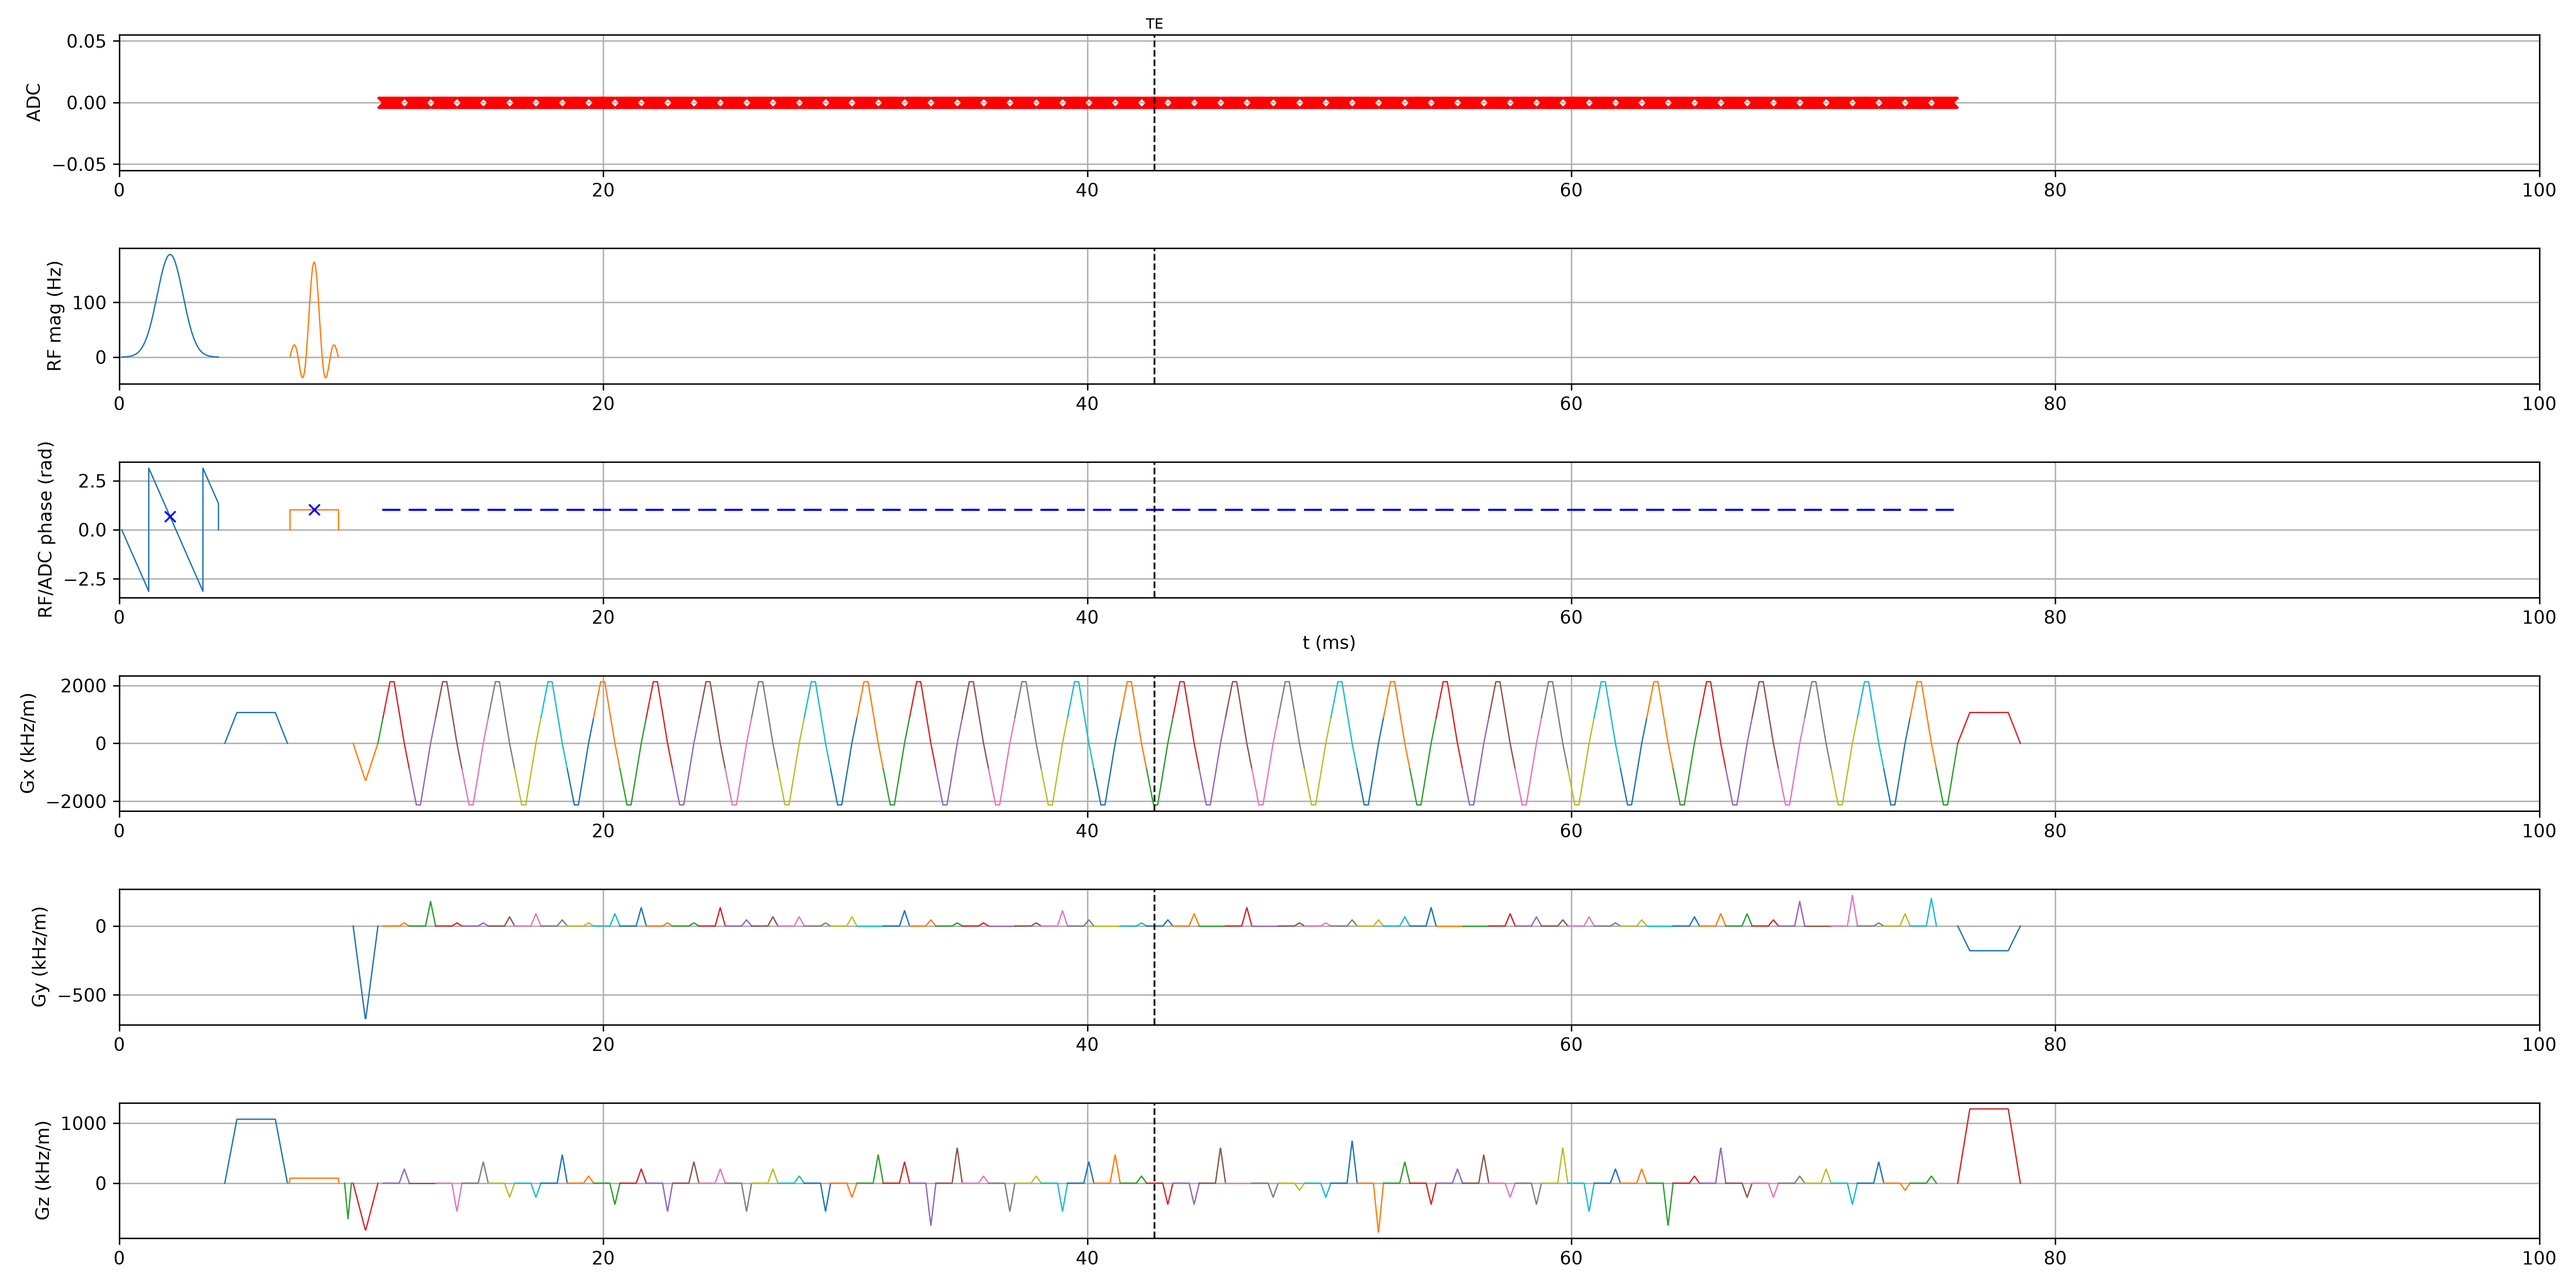
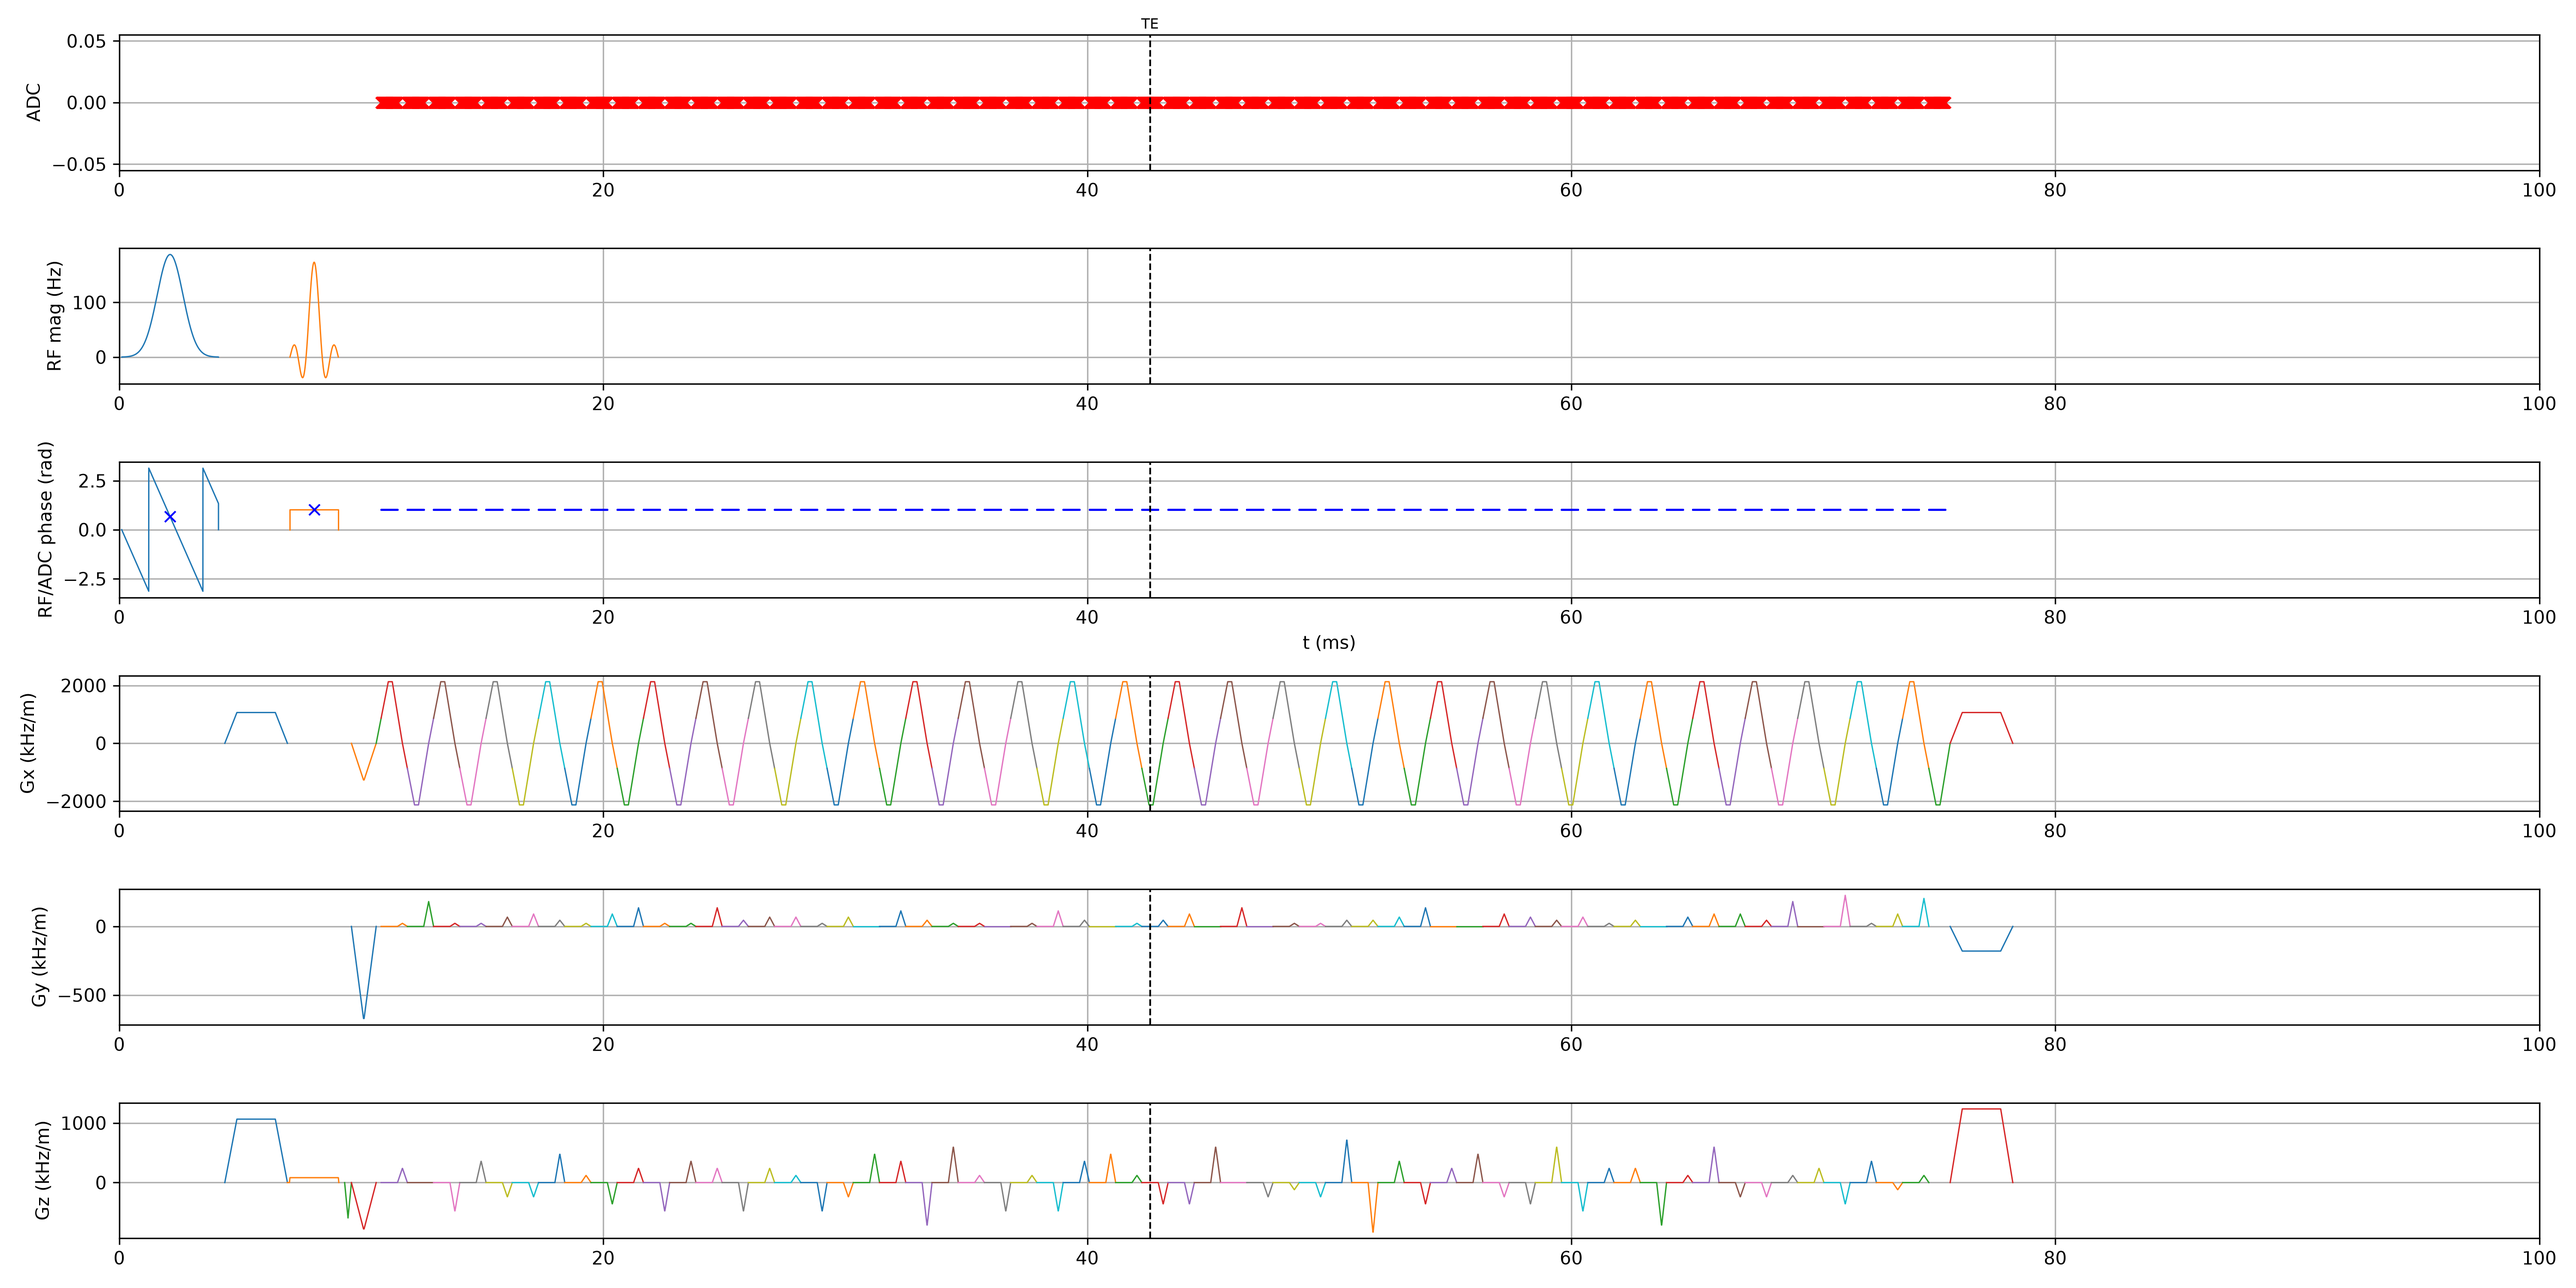
Bump blip_slew to 105 T/m/s, TE to 34.9 ms (ride-the-line choice)
Raising the blip slew from 100 to 105 shortens the shared blip window
408 -> 392 us and echo spacing 1084 -> 1076 us, taking min TE from
35.10 to 34.86 ms at 79.8% peak PNS on the full seed=0 ArbEPI build
(was 78.3%) -- a deliberate trade of nearly all the margin to the 80%
normal-mode line for 0.24 ms of TE. Probed alternatives: blip 110
lands at ~80.0% (coin flip), 115+ is over, and the blips alone floor
the sequence at ~83% by 160. The ~0.2% remaining margin is thinner
than observed mask-to-mask variation, so the params comment now says
to re-verify (PNS regression test + main.py --ge) after any change to
seed/mask/R/ETL/resolution and drop back to 100 if a new mask pushes
it over. Full re-verification: all four sequences pass main.py --ge
(ArbEPI 79.8%, EPIcal 78.1%, deGRE 77.4%, noise 0%), main.py builds
warning-free at TE 34.9 ms, comparison table/figures and docs/demo
one-TR figures regenerated.

diff --git a/params.py b/params.py
@@ -154,12 +154,19 @@ def load_params(output_dir: str = 'output') -> Params:
     # Values below are the outcome of an empirical sweep (2026-08-27, ~600
     # rise/fall/blip candidates, each a full-dims worst-frame ArbEPI build
     # evaluated with ge/pns.py's RSS-combined total; see CLAUDE.md's PNS
-    # section): 100/120/100 measures 78.2% peak PNS at min TE 35.22 ms
-    # vs the symmetric-100 design's 77.4% at 35.92 ms, on a conservative
-    # sweep mask whose largest blip step was 39 (the seed=0 mask's is 37,
-    # and the full seed=0 build confirms 78.3% peak at TE 35.30 ms
-    # realized -- slightly more PNS headroom and min_te pad than the sweep
-    # numbers imply). The POPE gain is
+    # section). rise/fall = 100/120 is the fastest readout-ramp pair under
+    # the 80% normal-mode line (rise 105 tips the full build to 80.06% at
+    # identical echo spacing; fall beyond ~120 buys almost no echo spacing
+    # because with ramp sampling the flat top regrows to keep +-kmax
+    # coverage). blip_slew = 105 is a deliberate ride-the-line choice
+    # (explicit user decision, 2026-08-27): the full seed=0 build measures
+    # 79.8% peak PNS at min TE 34.86 ms, vs 78.3% at 35.10 ms for
+    # blip_slew = 100 -- only ~0.2% margin to the 80% line, thinner than
+    # observed mask-to-mask variation, so re-verify (regression test +
+    # main.py --ge) after ANY change to seed/mask/R/ETL/resolution and
+    # drop back to 100 if a new mask pushes it over. blip 110 sits at
+    # ~80.0% (coin flip), 115+ is over; the symmetric-100 design measures
+    # 77.4% at min TE 35.80 ms. The POPE gain is
     # deliberately modest here: on this whole-body GE gradient the y-blip
     # plays centered on the kx turnaround, i.e. exactly where the readout
     # fall ramp ends, so an aggressive fall slew RSS-combines with the
@@ -167,13 +174,13 @@ def load_params(output_dir: str = 'output') -> Params:
     # great per-channel but its RSS total is 106%) -- the sweep therefore
     # lands on a mild fall/rise ratio and a moderate blip slew rather than
     # the paper's hardware-limit fall. The prescribed-TE target of 30 ms
-    # is unreachable under the 80% normal-mode line: every config at
-    # min TE <= 35.2 ms exceeded 80% (the fastest sub-80% config is this
-    # one; reaching ~33 ms costs >85%, and ~30 ms well over 100%).
+    # is unreachable under the 80% normal-mode line: this config is the
+    # fastest sub-80% one found (min TE 34.86 ms); reaching ~33 ms costs
+    # >85%, and ~30 ms well over 100%.
     slew_derate = 100.0
     ro_slew_rise = 100.0  # POPE-throttled ramp-up
     ro_slew_fall = 120.0  # ramp-down; not PNS-limited per se, but see above
-    blip_slew = 100.0
+    blip_slew = 105.0  # ride-the-line choice, ~0.2% PNS margin -- see above
 
     # Spatial parameters. 0.9mm isotropic resolution; x/y FOV held at the
     # previous 216mm, z (slice-select) FOV reduced to 40.5mm.
@@ -188,14 +195,14 @@ def load_params(output_dir: str = 'output') -> Params:
     Nshots = math.ceil(Ny * Nz / R / ETL)
 
     # Decay parameters
-    # Min achievable TE is ~35.22 ms at this ETL/R and the POPE slews above
+    # Min achievable TE is ~34.86 ms at this ETL/R and the POPE slews above
     # (with the seed=0 mask's blip steps; a different mask shifts it by a
-    # few hundred us at most). 35.3 ms leaves a small pad; calc_te_tr_delays
-    # warns (and falls back to min_te) if a future mask makes it
-    # unachievable. BOLD-contrast optimality of this TE still needs
-    # checking -- the target of 30 ms is unreachable under the 80% PNS
-    # limit (see the slew-sweep comment above).
-    TE = 35.3e-3
+    # few hundred us at most, so this thin pad may need raising).
+    # calc_te_tr_delays warns (and falls back to min_te) if a future mask
+    # makes it unachievable. BOLD-contrast optimality of this TE still
+    # needs checking -- the target of 30 ms is unreachable under the 80%
+    # PNS limit (see the slew-sweep comment above).
+    TE = 34.9e-3
     volume_tr = 2
     TR = volume_tr / Nshots
     T1 = 1.3

diff --git a/README.md b/README.md
@@ -125,7 +125,7 @@ export_to_ge('output/ArbEPI.seq', 'output/ArbEPI', params)
 
 **Hardware limits are keyed off the `scanner` variable set in `params.py`** (`GE_MR750` or `GE_UHP`, see `scanners.py`): `load_params()` builds `params.spec` (a `ScannerSpec`) once and derives `sys.max_grad`/`sys.max_slew` for `.seq` generation from the same instance that `ge/check.py`/`ge/writeceq.py` read directly, so they can't drift out of sync with each other. `main.py --ge` also calls `ge.ge_export.check_ge_feasibility()` on all four sequences — running the hardware/PNS/acoustics check without writing a `.pge` — *before* exporting any of them, so an infeasibility surfaces immediately instead of after several full exports. PNS is a physiological safety limit, not a hardware one — `PNSwt` (a separate `Params` field, not part of `ScannerSpec`, since it's phantom-vs-human scan context) defaults to the IEC 60601-2-33:2022-recommended `[0.8, 1.0, 0.7]`; `[0, 0, 0]` disables the PNS check entirely and is only appropriate for phantom/non-human scanning. Acoustic-resonance is checked but never blocks export — it's a `WARN` in the report, matching MATLAB's own `check_grad_acoustics.m`, which only ever calls `warning(...)`, never `error(...)`, when over threshold.
 
-**Default sequences now measure under the 80% normal-mode PNS line.** `PNSwt` was `[0, 0, 0]` for most of this port's lifetime, so PNS was never actually evaluated in any `--ge` run (weight zero makes the per-channel contribution zero regardless of the real waveform); turning on the real weights (validated against MATLAB's per-instance pipeline to ~0.02 percentage points via `ge/pns.py`) revealed `EPIcal`/`ArbEPI`/`deGRE` all far over the limit (113–115% for the EPI sequences at full hardware slew). The resolution is a PNS-optimized *asymmetric* EPI readout (POPE, [Huber et al. 2026](https://doi.org/10.64898/2026.07.22.739360)): the readout trapezoid's ramp-up slew is throttled (`params.ro_slew_rise`) while the ramp-down (`ro_slew_fall`) runs faster, since nerve-integration PNS models peak at the *end* of each sustained slew event. With the empirically tuned defaults in `params.py` (rise/fall/blip 100/120/100 T/m/s), the full ArbEPI build measures ~78% peak PNS at a ~0.7 ms shorter minimum TE than a symmetric derate of equal PNS — see `CLAUDE.md`'s PNS section for the sweep record, including why the fall/rise ratio stays mild here (the y/z blips play centered on the readout reversal, so aggressive fall/blip slews RSS-combine into a 3-channel hotspot on this whole-body gradient). `uv run python -m plotting.compare_readout_pns` rebuilds the symmetric-vs-POPE comparison (two full sequences, identical nominal parameters and sampling masks) and writes per-variant and overlay PNS figures to `output/compare_pope/`. A regression test (`test_arbepi_default_params_peak_pns_under_normal_mode_limit`) guards the <80% property; PNS is scan-context-dependent, so re-check after changing scanner, mask seed, `R`/`ETL`, or resolution.
+**Default sequences now measure under the 80% normal-mode PNS line.** `PNSwt` was `[0, 0, 0]` for most of this port's lifetime, so PNS was never actually evaluated in any `--ge` run (weight zero makes the per-channel contribution zero regardless of the real waveform); turning on the real weights (validated against MATLAB's per-instance pipeline to ~0.02 percentage points via `ge/pns.py`) revealed `EPIcal`/`ArbEPI`/`deGRE` all far over the limit (113–115% for the EPI sequences at full hardware slew). The resolution is a PNS-optimized *asymmetric* EPI readout (POPE, [Huber et al. 2026](https://doi.org/10.64898/2026.07.22.739360)): the readout trapezoid's ramp-up slew is throttled (`params.ro_slew_rise`) while the ramp-down (`ro_slew_fall`) runs faster, since nerve-integration PNS models peak at the *end* of each sustained slew event. With the empirically tuned defaults in `params.py` (rise/fall/blip 100/120/105 T/m/s), the full ArbEPI build measures ~79.8% peak PNS at a ~0.9 ms shorter minimum TE than a symmetric 100 T/m/s derate — see `CLAUDE.md`'s PNS section for the sweep record, including why the fall/rise ratio stays mild here (the y/z blips play centered on the readout reversal, so aggressive fall/blip slews RSS-combine into a 3-channel hotspot on this whole-body gradient). `uv run python -m plotting.compare_readout_pns` rebuilds the symmetric-vs-POPE comparison (two full sequences, identical nominal parameters and sampling masks) and writes per-variant and overlay PNS figures to `output/compare_pope/`. A regression test (`test_arbepi_default_params_peak_pns_under_normal_mode_limit`) guards the <80% property; PNS is scan-context-dependent, so re-check after changing scanner, mask seed, `R`/`ETL`, or resolution.
 
 ## Copy to scanner (`ge/coppe.py`)
 

diff --git a/CLAUDE.md b/CLAUDE.md
@@ -363,10 +363,15 @@ plus an empirical slew sweep (2026-08-27, ~600 rise/fall/blip candidates,
 full-dims worst-frame ArbEPI builds scored by `ge/pns.py`'s RSS-combined
 total): the tuned defaults in `params.py`
 (`slew_derate=100`, `ro_slew_rise=100`, `ro_slew_fall=120`,
-`blip_slew=100`) measure **78.3% peak on the full ArbEPI build (GE_MR750,
-seed=0) at min TE ~35.2 ms**, vs 77.4% at min TE ~35.9 ms for the
-symmetric-100 design through the same code -- POPE spends ~1% of PNS
-margin to shorten TE by ~0.7 ms. Two sweep lessons worth keeping: (a) the
+`blip_slew=105`) measure **79.8% peak on the full ArbEPI build (GE_MR750,
+seed=0) at min TE 34.86 ms**, vs 77.4% at min TE ~35.8 ms for the
+symmetric-100 design through the same code -- POPE spends ~2.4% of PNS
+margin to shorten TE by ~0.9 ms. `blip_slew=105` is a deliberate
+ride-the-line choice (explicit user decision) leaving only ~0.2% margin
+to the 80% limit -- thinner than observed mask-to-mask variation, so
+re-verify after any seed/mask/`R`/`ETL`/resolution change and drop back
+to `blip_slew=100` (78.3% at min TE 35.10 ms) if a new mask pushes it
+over. Two sweep lessons worth keeping: (a) the
 per-channel PNS maxima are badly misleading here -- the y/z blips play
 centered on the kx turnaround, exactly where the readout fall ramp ends,
 so aggressive fall/blip slews RSS-combine into a 3-channel hotspot (e.g.
